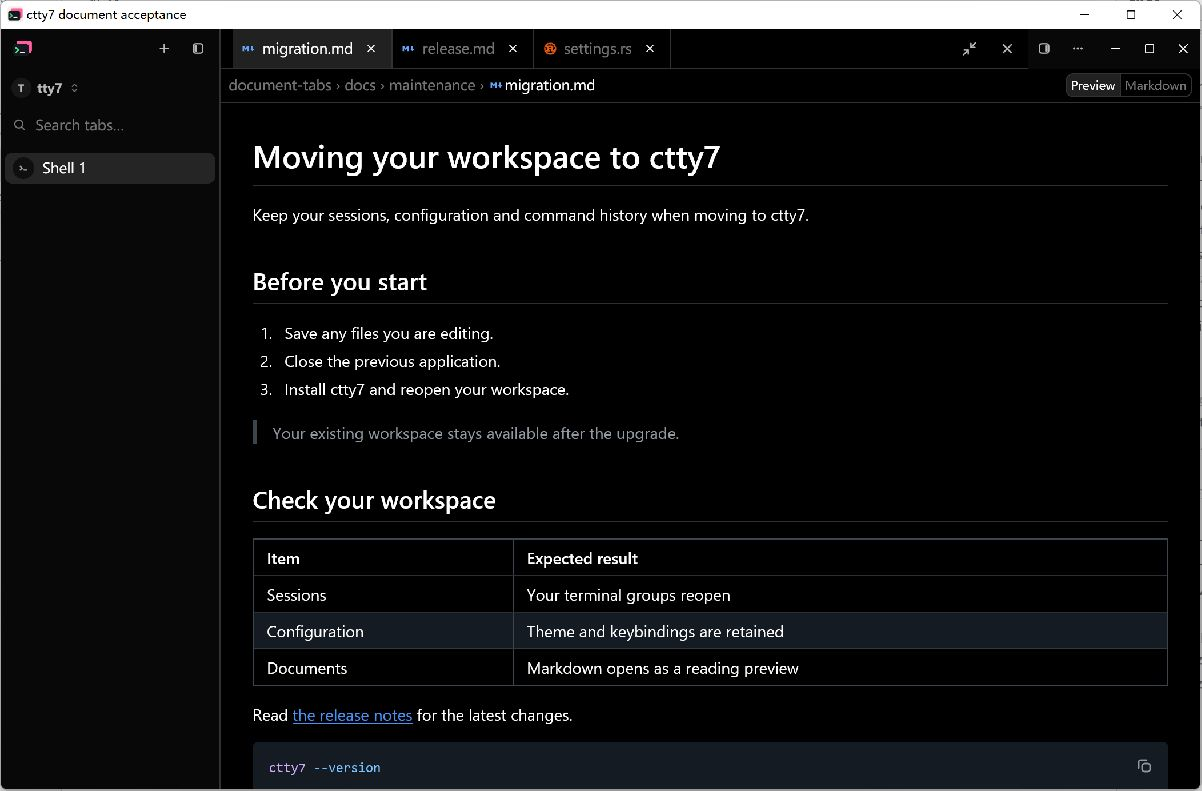
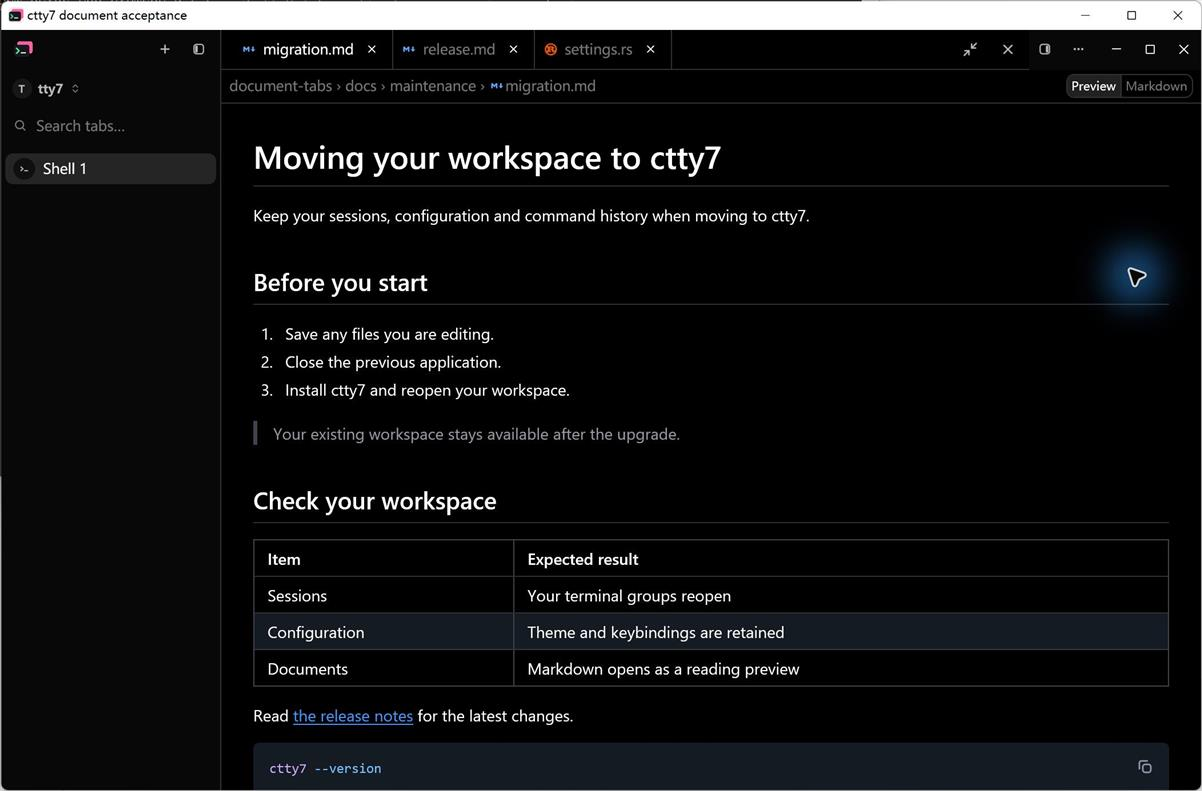
fix(editor): match document chrome to the active content
Source tabs and breadcrumbs used the window background, breaking the
visual continuity with the syntax editor.

Use the active editor background for source document chrome and a
muted blend for inactive tabs. Keep the preview background unchanged.
Refresh all three native After captures and their reproduction notes.

diff --git a/src/ui/code_editor.rs b/src/ui/code_editor.rs
@@ -6,8 +6,8 @@ use std::sync::Arc;
 
 use gpui::prelude::*;
 use gpui::{
-    AnyElement, Context, Entity, Focusable as _, PromptLevel, SharedString, Subscription, Window,
-    div, px,
+    AnyElement, App, Context, Entity, Focusable as _, PromptLevel, SharedString, Subscription,
+    Window, div, px,
 };
 use gpui_component::button::{Button, ButtonVariants as _};
 use gpui_component::input::{Input, InputEvent, InputState, Position, TabSize};
@@ -28,6 +28,21 @@ const MAX_FILE_BYTES: u64 = 4 * 1024 * 1024;
 pub(crate) mod native_html;
 
 const RELOAD_DEBOUNCE: std::time::Duration = std::time::Duration::from_millis(200);
+
+fn document_chrome_background(active: Option<&OpenFile>, cx: &App) -> u32 {
+    let surface = cx.global::<crate::ui::presets::Surfaces>().window;
+    if active.is_none_or(|file| file.preview) {
+        return surface.base;
+    }
+    let color = crate::terminal::palette::hsla_to_rgb(
+        crate::ui::editor_theme::current(cx)
+            .highlight_theme
+            .style
+            .editor_background
+            .expect("bundled editor background"),
+    );
+    (color.r as u32) << 16 | (color.g as u32) << 8 | color.b as u32
+}
 
 pub(crate) struct OpenFile {
     pub(crate) path: PathBuf,
@@ -1727,7 +1742,9 @@ impl Tty7App {
         };
         let menu_app = cx.entity().downgrade();
         let surface = cx.global::<crate::ui::presets::Surfaces>().window;
-        let inactive_tab = surface.hover;
+        let active = self.tab_code().and_then(|code| code.active_file());
+        let content_background = document_chrome_background(active, cx);
+        let inactive_tab = crate::ui::presets::mix(content_background, surface.base, 0.36);
         let font = gpui::font(cx.theme().font_family.clone());
         let rem = window.rem_size().as_f32();
         row.flex_none()
@@ -1753,7 +1770,7 @@ impl Tty7App {
                     .flex_1()
                     .min_w_0()
                     .h_full()
-                    .bg(gpui::rgb(inactive_tab))
+                    .bg(gpui::rgb(content_background))
                     .overflow_x_scroll()
                     .when_some(self.tab_code(), |strip, code| {
                         strip.track_scroll(&code.tab_scroll).children(
@@ -1794,7 +1811,7 @@ impl Tty7App {
                                     .text_sm()
                                     .cursor_pointer()
                                     .when(ix == code.active, |tab| {
-                                        tab.bg(gpui::rgb(surface.base))
+                                        tab.bg(gpui::rgb(content_background))
                                             .text_color(gpui::rgb(surface.text_selected))
                                     })
                                     .when(ix != code.active, |tab| {
@@ -1943,6 +1960,7 @@ impl Tty7App {
             .items_center()
             .gap_1()
             .px_2()
+            .bg(gpui::rgb(document_chrome_background(active, cx)))
             .border_b_1()
             .border_color(cx.theme().border)
             .child(

diff --git a/docs/testing/document-tabs-native.md b/docs/testing/document-tabs-native.md
@@ -46,11 +46,16 @@ Keep the captured images in the repository and embed them directly in the PR's E
 These are Local Computer Use captures of the real native application, using the
 same fixture files, dark theme, Fill layout, 1200 by 760 viewport and 1.75 scale
 factor. The exported JPEGs include the native frame and measure 1202 by 791
-pixels. No document controls were drawn over the screenshots.
+pixels. The refreshed After captures were copied with the active-window screenshot
+shortcut and scaled from physical pixels to the same export size. No document
+controls were drawn over the screenshots.
 
 The Before application uses production commit `e06271fb` with only fixture
 commits `89176e54` and `8de7b3f5` applied. The After application uses the file-tab
-UI at `63f2f5da`. Markdown cases open the two maintenance documents and
+UI with the content-matched document chrome color pass. In source mode, the
+active tab and breadcrumb row share the editor background, while inactive tabs
+use a darker blend. Markdown and HTML previews retain the window background.
+Markdown cases open the two maintenance documents and
 `settings.rs`; the HTML case additionally opens `overview.html`.
 
 | Markdown Preview before | Markdown Preview after |
@@ -68,8 +73,14 @@ UI at `63f2f5da`. Markdown cases open the two maintenance documents and
 Native input also verified clicking Markdown to enter source, switching to
 `release.md` in its independent Preview mode, returning to `migration.md` with
 source mode retained, and closing inactive `settings.rs` without changing the
-current document. The source After image was captured after that mode-preserving
-round trip and before the inactive file was closed.
+current document. The refreshed source After image was captured by selecting
+Markdown in the preview fixture, with all three files still open.
+
+The color pass passed `cargo fmt --all -- --check`, all six tests selected by
+`cargo test --bin tty7-app document_tabs --no-fail-fast`, and
+`cargo build --bin tty7-app --features markdown-visual-tests` on Windows. The
+three refreshed After images were inspected in the native application and again
+after export.
 
 ## Capture limits
 
